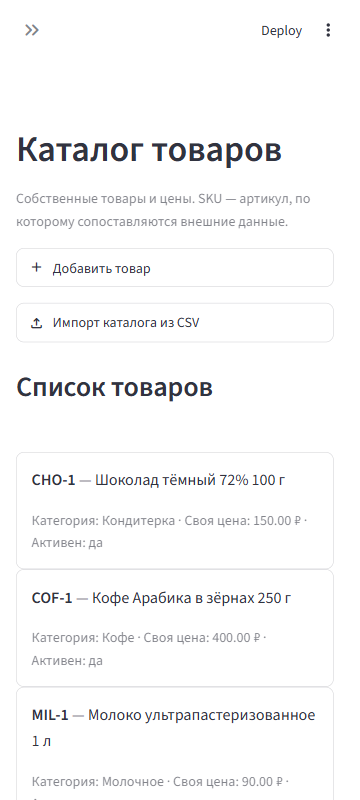
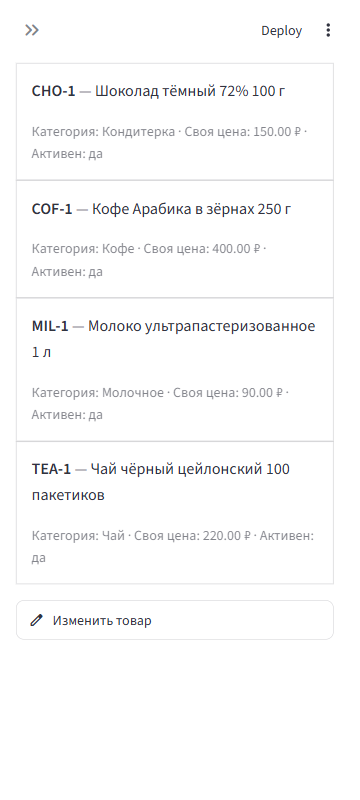
Прямые углы у таблиц и карточек в мобильной версии; обновлены мобильные скриншоты

diff --git a/app/ui/icons.py b/app/ui/icons.py
@@ -339,6 +339,11 @@ MOBILE_CSS = (
     "/* таблицы и графики скроллятся внутри себя, а не тянут страницу */"
     "[data-testid=\"stDataFrame\"],[data-testid=\"stTable\"],"
     "[data-testid=\"stPlotlyChart\"],.js-plotly-plot,.plotly-graph-div{max-width:100%}"
+    "/* на телефоне скругления таблиц и карточек убираем */"
+    "[data-testid=\"stDataFrame\"],[data-testid=\"stDataFrame\"] *,"
+    "[data-testid=\"stTable\"],[data-testid=\"stTable\"] *{border-radius:0 !important}"
+    "/* bordered-карточки в 1.64 сверстаны как stVerticalBlock со своим классом */"
+    "[data-testid=\"stVerticalBlock\"]{border-radius:0 !important}"
     "/* вкладки переносятся на новую строку */"
     "[data-testid=\"stTabs\"] [role=\"tablist\"]{flex-wrap:wrap;row-gap:.25rem}"
     "}"
